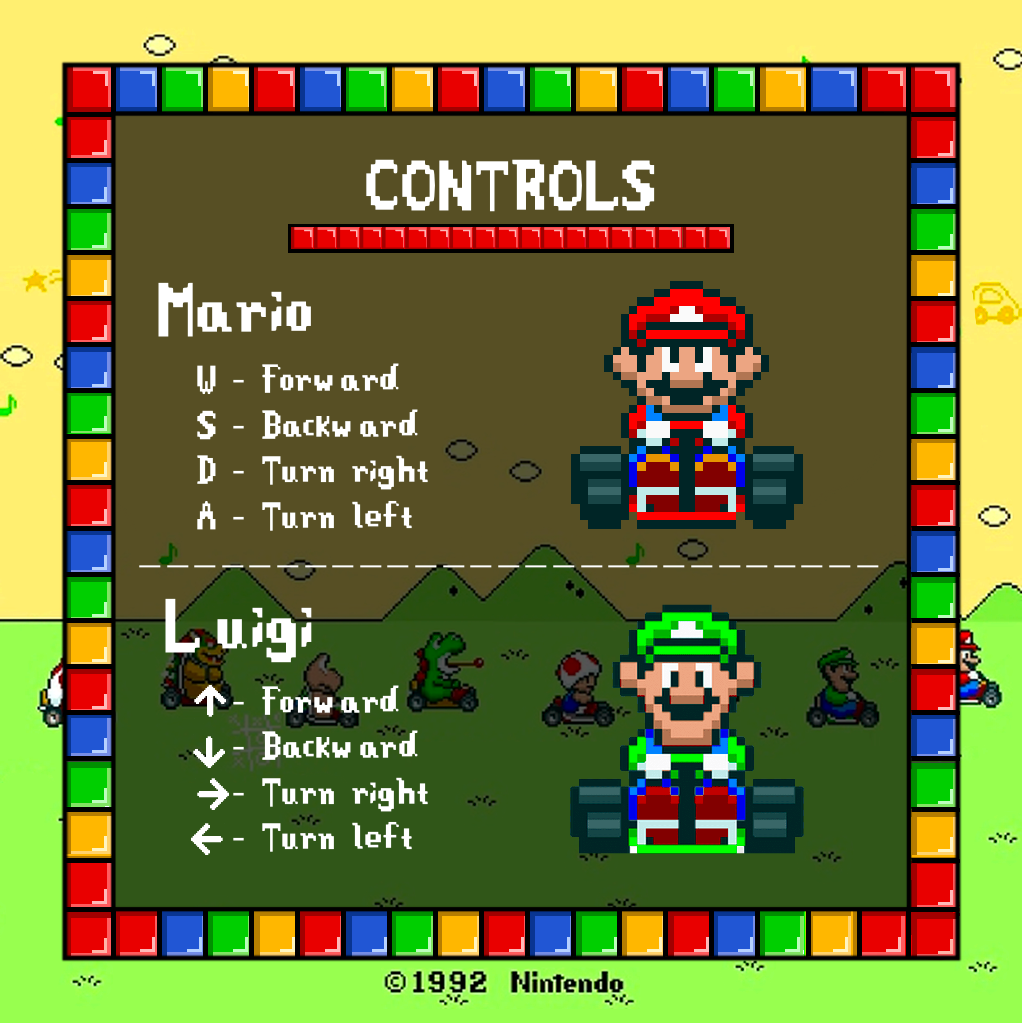
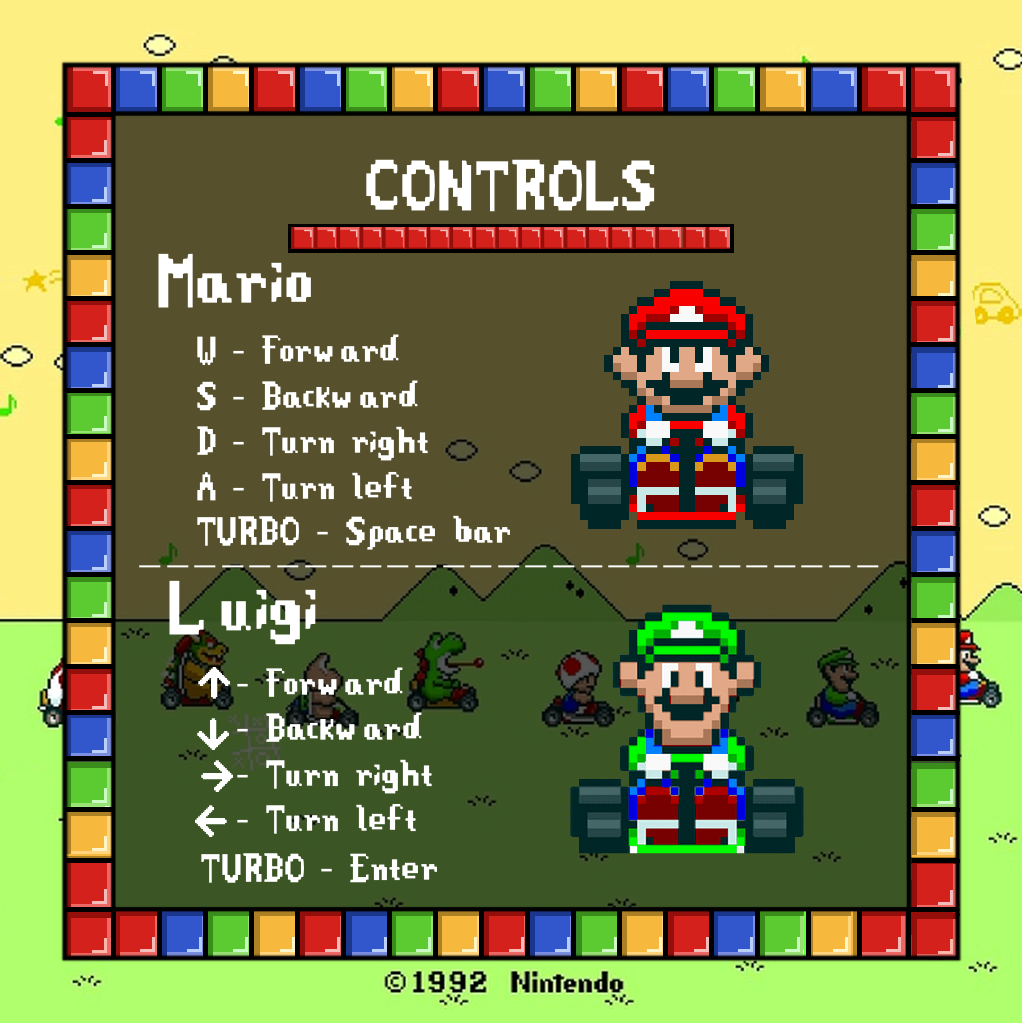
Intento de cuadrar el texto + BGs

diff --git a/Mario kart/Source/ModuleGame.cpp b/Mario kart/Source/ModuleGame.cpp
@@ -348,6 +348,10 @@ bool ModuleGame::Start()
 
 	// Load textures
 	circuit = LoadTexture("Assets/circuit.png");
+	title = LoadTexture("Assets/TitleScreen.png");
+	controls = LoadTexture("Assets/Controls.png");
+	results = LoadTexture("Assets/Results.png");
+	ui = LoadTexture("Assets/Cuadradetes.png");
 	mario = LoadTexture("Assets/mario.png");
 	luigi = LoadTexture("Assets/luigi.png");
 	peach = LoadTexture("Assets/peach.png");
@@ -387,6 +391,10 @@ bool ModuleGame::CleanUp()
 
 	// Unload textures
 	UnloadTexture(circuit);
+	UnloadTexture(title);
+	UnloadTexture(controls);
+	UnloadTexture(results);
+	UnloadTexture(ui);
 	UnloadTexture(mario);
 	UnloadTexture(luigi);
 	UnloadTexture(peach);
@@ -413,7 +421,10 @@ update_status ModuleGame::Update()
 		// Play music
 		UpdateMusicStream(titleMusic);
 		// Draw main title
-		DrawText("TITLE", 250, 500, 50, BLACK);
+		float scaleX = (float)GetScreenWidth() / title.width;
+		float scaleY = (float)GetScreenHeight() / title.height;
+		DrawTextureEx(title, { 0, 0 }, 0.0f, fmax(scaleX, scaleY), WHITE);
+		/*DrawText("TITLE", 250, 500, 50, BLACK);*/
 		
 		if (IsKeyPressed(KEY_SPACE))
 		{
@@ -433,7 +444,10 @@ update_status ModuleGame::Update()
 		UpdateMusicStream(controlsMusic);
 		// Draw controls
 		entitiesLoaded = false;
-		DrawText("CONTROLS", 250, 500, 50, BLACK);
+		float scaleX = (float)GetScreenWidth() / controls.width;
+		float scaleY = (float)GetScreenHeight() / controls.height;
+		DrawTextureEx(controls, { 0, 0 }, 0.0f, fmax(scaleX, scaleY), WHITE);
+		/*DrawText("CONTROLS", 250, 500, 50, BLACK);*/
 		if (IsKeyPressed(KEY_SPACE))
 		{
 			App->audio->PlayFx(screenPass_fx);
@@ -446,6 +460,7 @@ update_status ModuleGame::Update()
 		// Play music
 		if ((LapsM == 3 || LapsL == 3 || LapsP == 3) && finalLap == true) UpdateMusicStream(circuitMusicFL);
 		else UpdateMusicStream(circuitMusic);
+		
 		//load sensors -------------------------------------
 		if (entitiesLoaded == false)
 		{
@@ -482,9 +497,13 @@ update_status ModuleGame::Update()
 			App->renderer->camera.x = App->renderer->camera.y = 0;
 			entitiesLoaded = true;
 		}
+		
 		float scaleX = (float)GetScreenWidth() / circuit.width;
 		float scaleY = (float)GetScreenHeight() / circuit.height;
 		DrawTextureEx(circuit, { 0, 0 }, 0.0f, fmax(scaleX, scaleY), WHITE);
+
+		DrawTexture(ui, 0, 0, WHITE);
+
 		TextDraw();
 		engineSound();
 
@@ -501,7 +520,20 @@ update_status ModuleGame::Update()
 		// Play music
 		UpdateMusicStream(resultsMusic);
 		// Draw results
-		DrawText("RESULTS", 250, 500, 50, BLACK);
+		float scaleX = (float)GetScreenWidth() / results.width;
+		float scaleY = (float)GetScreenHeight() / results.height;
+		DrawTextureEx(results, { 0, 0 }, 0.0f, fmax(scaleX, scaleY), WHITE);
+
+		if (bestTime >= 1000000)
+		{
+			DrawText("Best Time: XX\n", 150, 400, 70, WHITE);
+		}
+		else
+		{
+			DrawText(TextFormat("Best Time: %.2f\n", bestTime), 150, 400, 70, WHITE);
+		}
+
+		/*DrawText("RESULTS", 250, 500, 50, BLACK);*/
 		if (IsKeyPressed(KEY_SPACE))
 		{
 			App->audio->PlayFx(screenPass_fx);
@@ -855,51 +887,53 @@ void ModuleGame::OnCollision(PhysBody* bodyA, PhysBody* bodyB)
 
 void ModuleGame::TextDraw()
 {
-	// Draw text for Mario
-	DrawText(TextFormat("Lap: %i / 3\n", LapsM), 10, 900, 50, RED);
-	if (bestTime >= 1000000)
-	{
-		DrawText(TextFormat("Best Time: XX\n"), 10, 850, 50, RED);
-	}
-	else
-	{
-		DrawText(TextFormat("Best Time: %.2f\n", bestTime), 10, 850, 50, RED);
-	}
+    // Texto para Mario (esquina inferior izquierda)
+    DrawText(TextFormat("Lap: %i / 3\n", LapsM), 85, 938, 30, RED);
+   /* if (bestTime >= 1000000)
+    {
+        DrawText("Best Time: XX\n", 50, 930, 30, RED);
+    }
+    else
+    {
+        DrawText(TextFormat("Best Time: %.2f\n", bestTime), 50, 930, 30, RED);
+    }*/
 
-	DrawText(TextFormat("Current Time: %.2f\n", kart->currentTime), 10, 800, 50, RED);
-	if (LapsM > 3)
-	{
-		if (kart->currentTime < bestTime)
-		{
-			bestTime = kart->currentTime;
-		}
-		kart->gameTimer.Start();
-	}
-	// Draw text for Luigi
-	DrawText(TextFormat("Lap: %i / 3\n", LapsL), 10, 950, 50, GREEN);
-	if (LapsL > 3)
-	{
-		if (kart->currentTime < bestTime)
-		{
-			bestTime = kart->currentTime;
-		}
-		kart->gameTimer.Start();
-	}
-	// Draw text for Peach
-	DrawText(TextFormat("Lap: %i / 3\n", LapsP), 400, 950, 50, PINK);
-	if (LapsP > 3)
-	{
-		if (kart->currentTime < bestTime)
-		{
-			bestTime = kart->currentTime;
-		}
-		kart->gameTimer.Start();
-	}
+    DrawText(TextFormat("Current Time: %.2f\n", kart->currentTime), 460, 35, 28, RED);
+    if (LapsM > 3)
+    {
+        if (kart->currentTime < bestTime)
+        {
+            bestTime = kart->currentTime;
+        }
+        kart->gameTimer.Start();
+    }
 
-	// Draw podium positions
-	DrawPodium();
+    // Texto para Luigi (esquina inferior izquierda)
+    DrawText(TextFormat("Lap: %i / 3\n", LapsL), 290, 938, 30, GREEN);
+    if (LapsL > 3)
+    {
+        if (kart->currentTime < bestTime)
+        {
+            bestTime = kart->currentTime;
+        }
+        kart->gameTimer.Start();
+    }
 
+    // Texto para Peach (esquina superior derecha)
+   /* DrawText(TextFormat("Lap: %i / 3\n", LapsP), 800, 50, 50, PINK);
+    if (LapsP > 3)
+    {
+        if (kart->currentTime < bestTime)
+        {
+            bestTime = kart->currentTime;
+        }
+        kart->gameTimer.Start();
+    }*/
+
+    // Dibuja posiciones del podio
+    DrawPodium();
 }
+
 
 void ModuleGame::DrawPodium()
 {

diff --git a/Mario kart/Source/ModuleGame.h b/Mario kart/Source/ModuleGame.h
@@ -100,6 +100,10 @@ public:
 	int PositionPointsP = 0;
 
 	Texture2D circuit;
+	Texture2D title;
+	Texture2D controls;
+	Texture2D results;
+	Texture2D ui;
 	Texture2D mario;
 	Texture2D luigi;
 	Texture2D peach;
